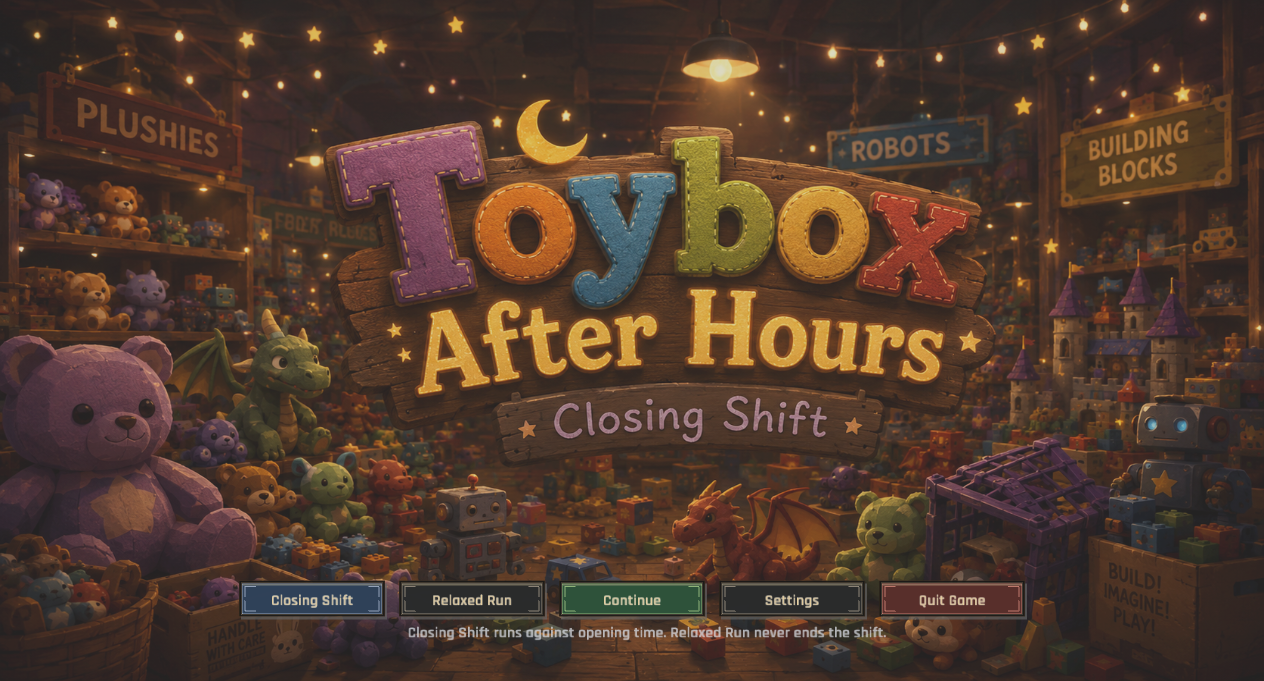
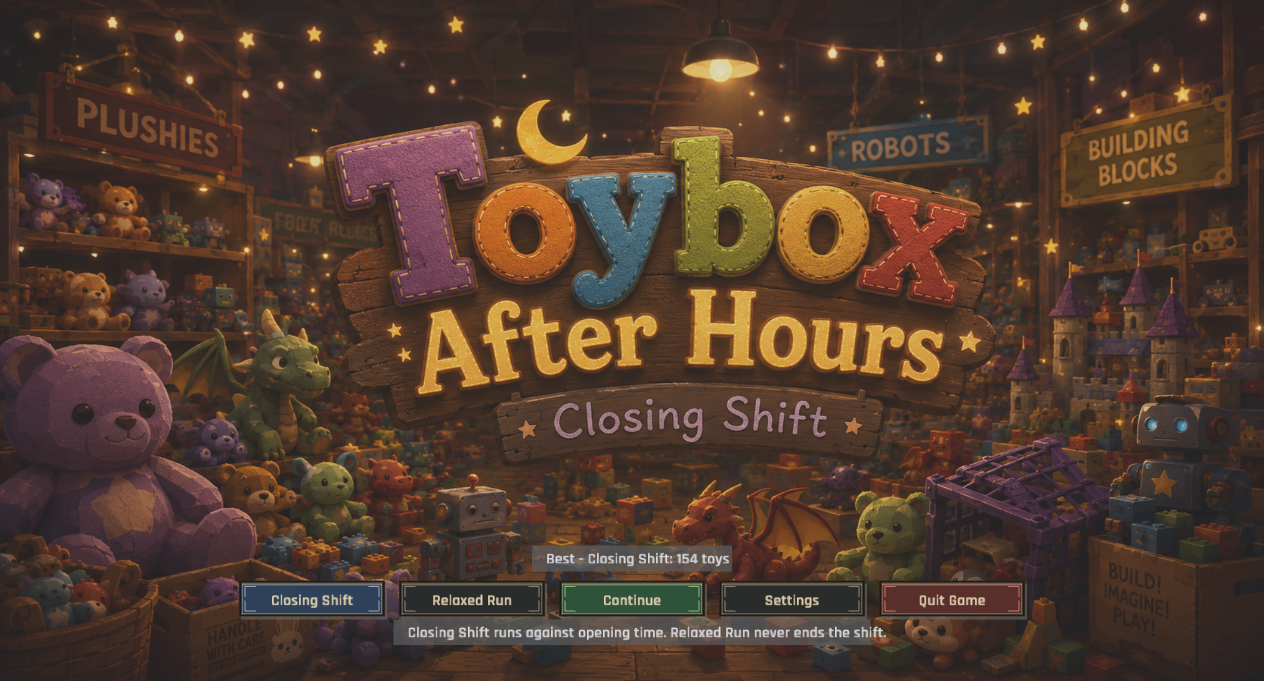
The record was only shown after the choice it should inform
Best runs landed last iteration on the score screen, which is the wrong end of
the run to learn what you are chasing. By the time it appears the mode has been
picked, the shift has been played, and the number is a verdict rather than a
target. With nothing else carrying between shifts, the record is the only reason
to choose the clock over a relaxed run — so it belongs at the title, above the
buttons that make that choice.

It reads "Best - Closing Shift: 154 toys", one entry per mode that has one, and
nothing at all for a player who has not finished a run yet rather than a row of
empty placeholders.

Putting it there exposed something the title had been getting away with. The
caption sits over the title art, which is a lit shop packed with bright toys, so
15px text landed on whatever colour happened to be behind it. The new line was
barely readable over a pile of pale plush; the existing mode caption had the same
problem and had simply never been looked at closely. Both sit on a dark plate
now, sized to the text rather than the screen, the same idiom as the HUD panels.

The title capture seeds its record in memory like `shift_over` does, so taking a
screenshot still never writes to a real player's records file.

All 12 scene captures match after the change.

Changed region(s): [[0.3085, 0.8943, 0.7097, 0.9559], [0.4011, 0.8018, 0.5862, 0.8634]]

diff --git a/src/ui/title.rs b/src/ui/title.rs
@@ -1,10 +1,12 @@
 use super::{logical_mouse_position, UiAction, LOGICAL_HEIGHT, LOGICAL_WIDTH};
+use crate::state::{BestRuns, ShiftMode};
 use macroquad::prelude::*;
 use macroquad_toolkit::prelude::*;
 
 pub(crate) fn draw_title_screen(
     title_texture: Option<&Texture2D>,
     continue_enabled: bool,
+    best_runs: &BestRuns,
 ) -> Vec<UiAction> {
     draw_title_background(title_texture);
     draw_title_scrim();
@@ -60,15 +62,53 @@ pub(crate) fn draw_title_screen(
         "Closing Shift runs against opening time. Relaxed Run never ends the shift.",
         y + button_h + 22.0,
     );
+    draw_best_runs(best_runs, y - 18.0);
 
     actions
 }
 
+/// The player's best run for each mode, above the buttons that pick one.
+///
+/// The score screen already reports a record once a shift ends, but by then the
+/// choice has been made. Sitting at the title deciding between a timed run and
+/// a relaxed one, what you are chasing is the thing worth knowing — and with
+/// nothing carrying between shifts, the record is the only reason to pick the
+/// clock at all.
+fn draw_best_runs(best: &BestRuns, y: f32) {
+    let parts: Vec<String> = [ShiftMode::Timed, ShiftMode::Relaxed]
+        .into_iter()
+        .filter_map(|mode| {
+            best.best_for(mode)
+                .map(|record| format!("{}: {} toys", mode.label(), record.toys_shelved))
+        })
+        .collect();
+
+    if parts.is_empty() {
+        return;
+    }
+    draw_title_caption(&format!("Best - {}", parts.join("   ")), y);
+}
+
+/// A centred line of small text over the title art, on a plate.
+///
+/// The art behind it is a lit shop full of bright toys, so unbacked 15px text
+/// lands on whatever colour happens to be there and is barely readable over the
+/// pale ones. The plate is the same idiom as the HUD panels: dark, mostly
+/// transparent, sized to the text rather than the screen.
 fn draw_title_caption(text: &str, y: f32) {
     let size = 15.0_f32;
-    let style = TextStyle::new(size, Color::new(0.78, 0.80, 0.84, 0.80));
     let width = measure_ui_text(text, None, size as u16, 1.0).width;
-    draw_ui_text_ex(text, (LOGICAL_WIDTH - width) * 0.5, y, style.params());
+    let x = (LOGICAL_WIDTH - width) * 0.5;
+
+    draw_rectangle(
+        x - 14.0,
+        y - size - 4.0,
+        width + 28.0,
+        size + 12.0,
+        Color::new(0.02, 0.025, 0.03, 0.62),
+    );
+    let style = TextStyle::new(size, Color::new(0.90, 0.91, 0.94, 0.95));
+    draw_ui_text_ex(text, x, y, style.params());
 }
 
 pub(crate) fn draw_settings_screen(

diff --git a/src/game.rs b/src/game.rs
@@ -150,9 +150,12 @@ impl Game {
                 self.session = GameSession::new(&self.data);
                 self.screen = GameScreen::Playing;
             }
-            // The two start buttons and the caption that tells them apart.
+            // The two start buttons, the caption that tells them apart, and a
+            // record to chase. Set in memory, never saved: a capture must not
+            // touch a real player's records file.
             "title" => {
                 self.has_save_file = true;
+                self.best_runs = capture_scenes::previous_best();
                 self.screen = GameScreen::Title;
             }
             "mid_run" => {
@@ -327,9 +330,11 @@ impl Game {
 
         ui::begin_ui_frame();
         let actions = match self.screen {
-            GameScreen::Title => {
-                ui::draw_title_screen(self.title_texture.as_ref(), self.has_save_file)
-            }
+            GameScreen::Title => ui::draw_title_screen(
+                self.title_texture.as_ref(),
+                self.has_save_file,
+                &self.best_runs,
+            ),
             GameScreen::Settings => ui::draw_settings_screen(
                 self.title_texture.as_ref(),
                 self.settings.fullscreen,

diff --git a/TODO.md b/TODO.md
@@ -26,6 +26,7 @@
 - **The ~88% zone cap is now legible rather than weakened.** `ZoneProgress::broken` counts an aisle's toys currently in halves and `still_to_find()` the rest of its shortfall, so the score screen reads "41 to find - 5 to mend" and the HUD "Plush Corner - 5 to mend / 90%". An aisle with toys in pieces is genuinely not restored, so `is_restored` was left alone; what was wrong was that a player who had shelved every whole toy in an aisle had no way to tell the remainder from toys they had missed. Pinned by `every_aisle_slot_is_accounted_for_as_shelved_broken_or_missing`.
 - **A shift is now worth repeating: best runs are recorded.** The game graded you and forgot — nothing carried between shifts by design, since tools are earned and lost inside one run, so a player who cleared 92% had no way to know next time whether they had beaten it. `state/records.rs` keeps a `ShiftRecord` per mode in its own save slot (`records_slot`), separate from the session because "New Game" overwrites that one and a record has to survive exactly that. The score screen reads "Best so far: 154 toys, 2 wrong, 28:32", or "New best" when the run improved it.
   - Better means **more toys, then fewer wrong shelves, then faster** — in that order, so a careful slow clear beats a scrappy quick one and speed only settles a tie. Deliberately not the grade, which is a coarse band that two different runs can share.
+  - The title screen shows the record too, above the buttons that pick a mode — by the time the score screen reports one the choice has already been made, and with nothing else carrying between shifts the record is the only reason to pick the clock. Both title captions now sit on a dark plate: 15px text unbacked over a lit shop full of bright toys was barely readable, which applied to the pre-existing mode caption as well.
   - Timed and Relaxed keep **separate** records. A relaxed run has no deadline, so its time is not comparable; pooling them would let an unhurried perfect clear stand as *the* record and leave a Closing Shift player nothing reachable to chase.
 - **The deadline is reachable.** `the_deadline_is_reachable_by_a_closer_who_buys_tools` adds `Strategy::Earner` — the only loadout a timed run ever really has, since tools do not carry between shifts — and it clears the shop in 20.0 min against the 30 min deadline, versus 27.9 bare-handed. Ten minutes of slack for a near-optimal closer that teleports in straight lines and never backtracks, so a real player should find 30 minutes comfortable played well and tight played carelessly. Still worth a human playthrough, since the replay's 0.6s-per-interaction constant is untuned.
 
